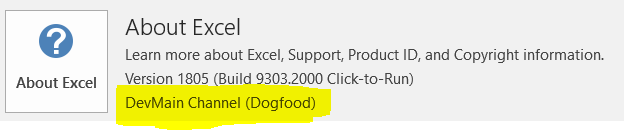
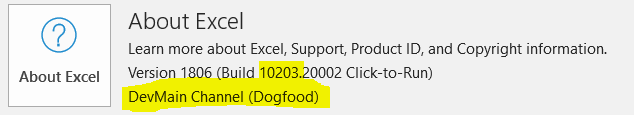
Update dogfood instructions [skip ci]

Changed region(s): [[0.0, 0.0261, 0.9744, 1.0], [0.0609, 0.1565, 0.1218, 0.4696]]

diff --git a/CUSTOM.FUNCTIONS.DOGFOOD.md b/CUSTOM.FUNCTIONS.DOGFOOD.md
@@ -4,7 +4,7 @@
 
 ### Prereq: Ensure you have the "DevMain Channel (Dogfood)"
 
-Be sure that your Office installation is on "DevMain Channel (Dogfood)":
+Ensure that you are on **DevMain Channel (Dogfood)**, with build number **9325 or greater** (we're already into the 5-digit numbers now, so for most of you, that should already be the case). Note that for purposes of these instructions and the //build timeline, Script Lab will only support Custom Functions **on Windows Desktop**.
 
 ![Dogfood channel](./.github/images/dogfood-channel.png)
 
@@ -19,9 +19,9 @@ The new manifest to sideload can be found [here](https://raw.githubusercontent.c
 
 If you've not sideloaded before via a network share, please refer to the [official documentation](https://docs.microsoft.com/en-us/office/dev/add-ins/testing/create-a-network-shared-folder-catalog-for-task-pane-and-content-add-ins).
 
-### Step 3: Switch to Alpha
+### Step 3: Switch to **BETA**
 
-For now, the Custom Functions experience is only available in the **Beta** deployment of Script lab. So, in addition to sideloading the manifest (which is orthogonal to this step), you also need to switch to Beta (**Code editor ==> About ==> Environment: Beta**)
+For now, the Custom Functions experience is only available in the **Beta** deployment of Script lab. So, in addition to sideloading the manifest (which is orthogonal to this step), you also need to switch to Beta (**Code editor ==> About ==> Environment: Beta**).
 
 ![Switch to Beta](./.github/images/switch-to-beta.png)
 
@@ -32,9 +32,7 @@ Custom Functions in action. Note the console.logs in the dashboard, as well!
 
 ## Usage
 
-Open the `Code` and `Functions` taskpanes, via the Ribbon.
-
-In the code editor, create a new snippet, and replace the existing code with the following:
+1.  Open the `Code` taskpane (via the Ribbon), create a new snippet, and replace the existing code with the following:
 
 ```typescript
 /** @CustomFunction */
@@ -43,36 +41,23 @@ function sum(a: number, b: number): number {
 }
 ```
 
-If you want, you can also specify the function description and parameter descriptions in the JSDOC. **BUT**, no matter what, you must include the **`@CustomFunction`** somewhere in the JSDOC (i.e., inside of a `/** ... */` block -- the double-star is important!)
+2.  Now choose the `Functions` ribbon button, to open the Custom Function dashboard appear. In a few seconds, the "Summary" tab should list the functions that you've registered.
 
-```typescript
-/**
- * Adds two numbers
- * @param a - First number to add
- * @param b - Second number to add
- * @CustomFunction
- */
-function sum(a: number, b: number): number {
-  return a + b;
-}
-```
+3.  Enter `=SCRIPTLAB.{FULLFUNCTIONNAME}` into a cell within Excel (e.g., `=SCRIPTLAB.BLANKSNIPPET.ADD(5,7)`). Within moments, the result should appear right within the cell.
 
-To try a web-service Custom Function, [import](http://aka.ms/scriptlab/import) this GitHub Gist: <https://gist.github.com/c8bbf1dd5c7fb33d5ea262e83e7df399>. Be sure to click "Trust" after importing.
+To try a more complicated (e.g., a web-service-calling) Custom Function, [import](http://aka.ms/scriptlab/import) this GitHub Gist: <https://gist.github.com/c8bbf1dd5c7fb33d5ea262e83e7df399>. Be sure to click "Trust" after importing.
 
 ## Friendly advice:
 
 1.  Remember to add `/** @CustomFunction */` to any function you want registered.
 
-1.  If you want to use `console.log`, do! It will show up in the Custom Functions dashboard taskpane.
-
-1.  **DO NOT CLOSE ANY OF THE PANES AFTER OPENING.**
-    There is currently a bug that will cause the custom functions runner to die if any of the panes are closed.
+1.  If you want to use `console.log`, do! It will show up in the "Console" tab of the Custom Functions dashboard.
 
 1.  If you close and and re-open Excel, remember to re-register your custom functions.
 
 ## Troubleshooting
 
-If for any reason your functions turn into `#GETTING_DATA` indefinitely, restart Excel.
+If for any reason your functions turn into `#GETTING_DATA` indefinitely, restart Excel. Hopefully this shouldn't be happening too often.
 
 ## Known issues
 
